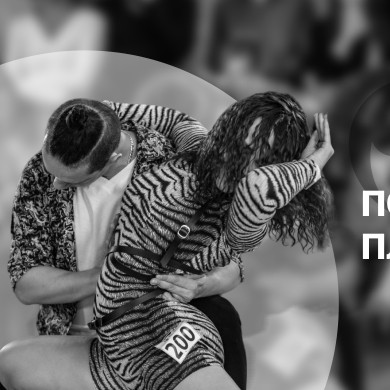
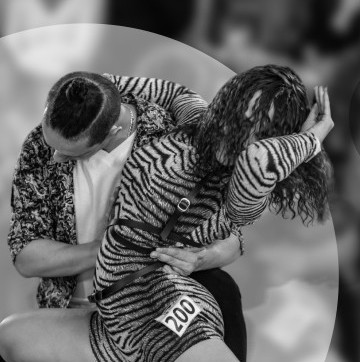
added an image in products section

diff --git a/index.html b/index.html
@@ -440,28 +440,9 @@
     autoplay: {
     delay: 3000,
     },
-    // effect: 'coverflow',
     grabCursor: true,
-    // centeredSlides: true,
-    // slidesPerView: 'auto',
-    // coverflowEffect: {
-    //     rotate: 3,
-    //     stretch: 0,
-    //     depth: 100,
-    //     modifier: 1,
-    //     scale: 1,
-    //     slideShadows: true,
-    //     }, 
         slidesPerView: 3,
         centeredSlides: true,
-        // slidesPerGroup: 1,
-
-        // loop: true,
-        // spaceBetween: 30,
-        // pagination: {
-        //     el: ".swiper-pagination",
-        //     clickable: true,
-        //     },
         });
     </script>
 </body>

diff --git a/css/style.css b/css/style.css
@@ -404,7 +404,7 @@ html {
 }
 
 .product-card-merch {
-    background-image: url(../img/product-card-2.jpeg);
+    background-image: url(../img/product-card-1.png);
 }
 
 .method-heading {
